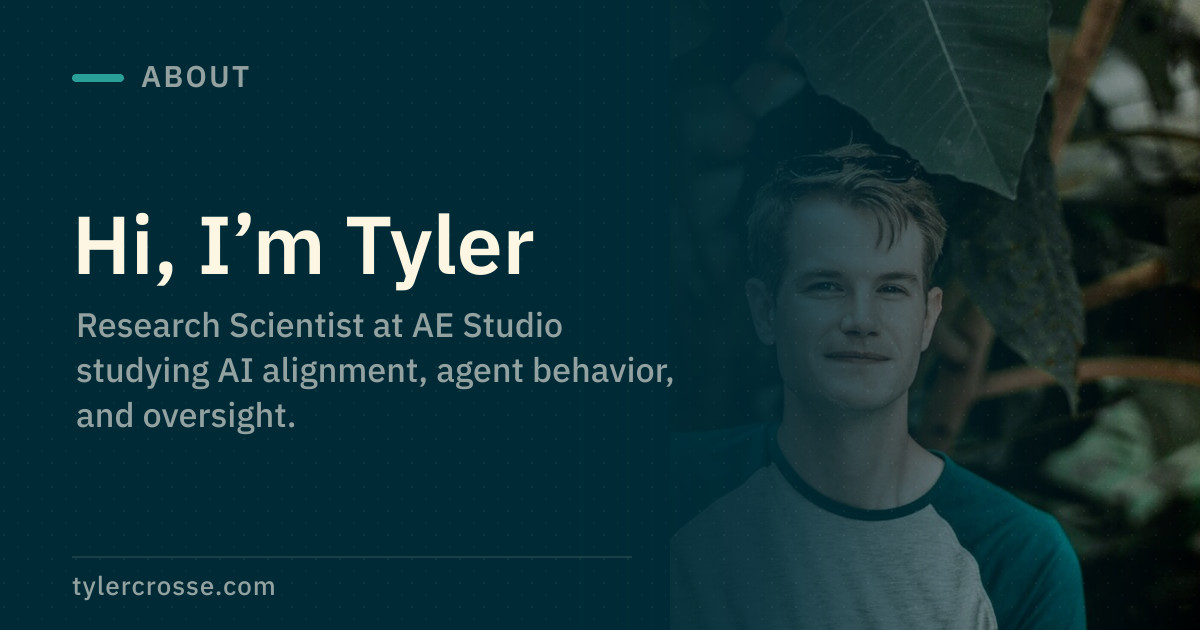
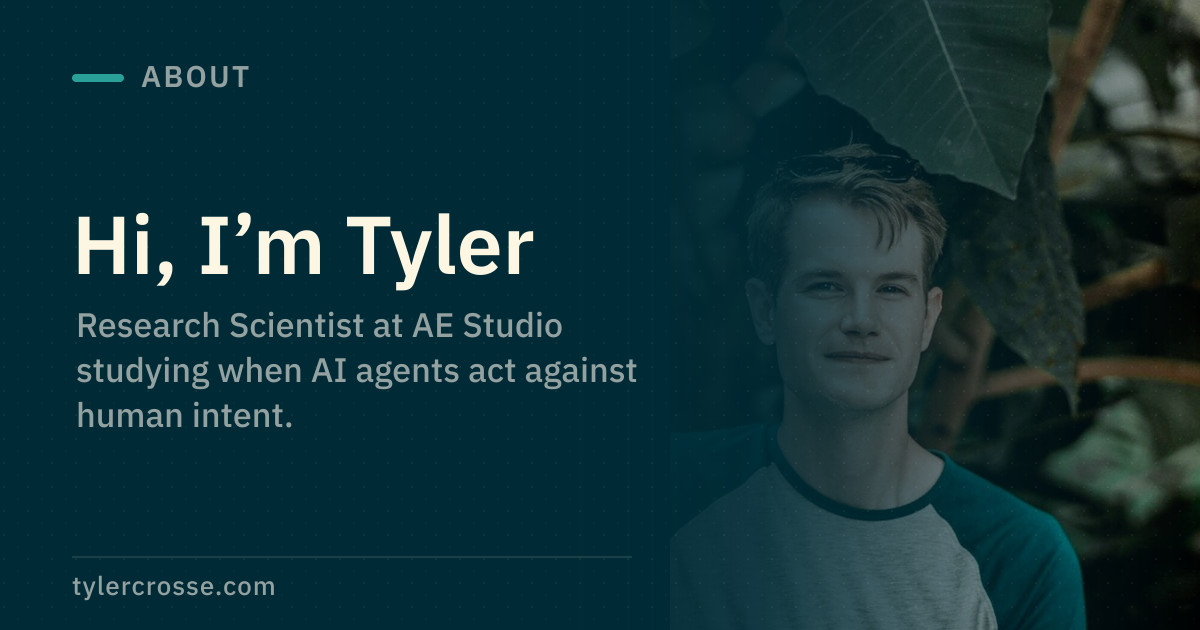
Sharpen research positioning on About, home, and Research
Reframe the intro around how models read their situation and when that
leads to harm. Recent research now says what was built and found, fixes
the NeurIPS wording so the main-conference acceptance is clear, and
notes PPO/LoRA fine-tuning in the ARENA project. Regenerate the home and
About social cards for the new description.

Changed region(s): [[0.185, 0.573, 0.555, 0.6333], [0.0617, 0.6333, 0.2467, 0.6937]]

diff --git a/src/utils/structuredData.ts b/src/utils/structuredData.ts
@@ -102,6 +102,7 @@ export function getPersonStructuredData(site: SiteReference): StructuredData {
     ],
     knowsAbout: [
       "AI safety",
+      "AI alignment",
       "AI control",
       "Agent evaluation",
       "Scalable oversight",
